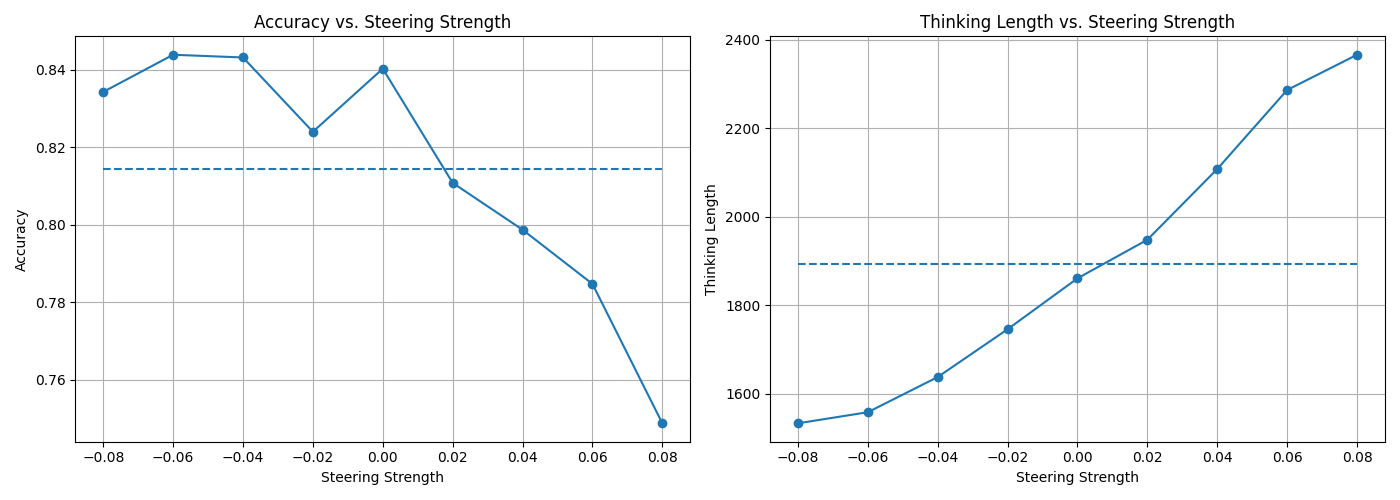
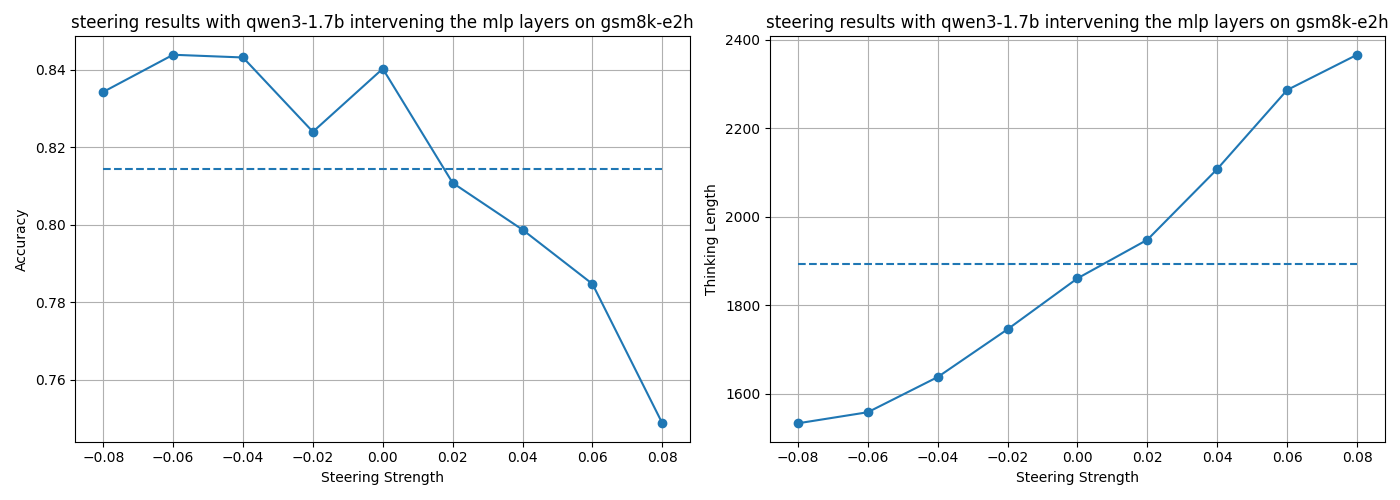
update graph titles + add q difficulty into response generation

Changed region(s): [[0.5529, 0.03, 1.0, 0.06], [0.0307, 0.03, 0.4914, 0.06]]

diff --git a/graph_steering.py b/graph_steering.py
@@ -19,7 +19,7 @@ import os
 import pandas as pd
 import matplotlib.pyplot as plt
 
-def plot_and_save(df, out_path):
+def plot_and_save(df, out_path, title):
     x = df['steering_strength']
     acc = df['accuracy']
     length = df['thinking_length']
@@ -32,7 +32,7 @@ def plot_and_save(df, out_path):
     # Accuracy plot
     ax1.plot(x, acc, marker='o')
     ax1.hlines(mean_acc, x.min(), x.max(), linestyles='--')
-    ax1.set_title('Accuracy vs. Steering Strength')
+    ax1.set_title(title)
     ax1.set_xlabel('Steering Strength')
     ax1.set_ylabel('Accuracy')
     ax1.grid(True)
@@ -40,7 +40,7 @@ def plot_and_save(df, out_path):
     # Thinking Length plot
     ax2.plot(x, length, marker='o')
     ax2.hlines(mean_len, x.min(), x.max(), linestyles='--')
-    ax2.set_title('Thinking Length vs. Steering Strength')
+    ax2.set_title(title)
     ax2.set_xlabel('Steering Strength')
     ax2.set_ylabel('Thinking Length')
     ax2.grid(True)
@@ -73,7 +73,11 @@ def main():
         except Exception as e:
             print(f"  Skipping {csv_path}: cannot read CSV ({e})")
             continue
-
+        parts = os.path.basename(csv_path).split('_')
+        dataset = parts[2]
+        model = parts[0]
+        control = parts[1]
+        title = f"steering results with {model} intervening the {control} layers on {dataset}"
         required = {'steering_strength', 'accuracy', 'thinking_length'}
         if not required.issubset(df.columns):
             missing = required - set(df.columns)
@@ -83,7 +87,7 @@ def main():
         base = os.path.splitext(os.path.basename(csv_path))[0]
         out_png = os.path.join(dir_path, f"{base}_metrics.png")
         print(f"  Processing {csv_path} → {out_png}")
-        plot_and_save(df, out_png)
+        plot_and_save(df, out_png, title)
 
     print("Done.")
 

diff --git a/gen_response_fast.py b/gen_response_fast.py
@@ -33,7 +33,8 @@ device = "cuda" if torch.cuda.is_available() else "cpu"
 
 dsinfo = DATASET_MAP[args.dataset]
 ds_hf_path, ds_opts = dsinfo["args"]
-dataset = load_dataset(ds_hf_path, ds_opts, split=dsinfo["split"])dataset[dsinfo["question_key"]]
+dataset = load_dataset(ds_hf_path, ds_opts, split=dsinfo["split"])
+
 
 model_path = model_dict[args.model]
 if args.vllm:
@@ -69,11 +70,12 @@ def get_prompt(q, tokenizer):
 
 responses_data = []
 thinking_lengths = []
+question_difficulties=[]
 total = len(dataset)
 
 if args.vllm:
     for batch_rows in batched(dataset, args.batch_size):
-        prompts = [get_prompt(r, tokenizer) for r in batch_rows]
+        prompts = [get_prompt(r[dsinfo["question_key"]], tokenizer) for r in batch_rows]
 
         gens = model.generate(prompts, sp)
         for q, out in zip(batch_rows, gens):
@@ -81,8 +83,11 @@ if args.vllm:
         
             thinking_part, thinking_length = extract_thinking(output)
             thinking_lengths.append(thinking_length)
+            question_difficulty = q["rating"] if args.dataset == "gsm8k-e2h" else 1
+            question_difficulties.append(question_difficulty)
             responses_data.append({
                 "question": q,
+                "question_difficulty": question_difficulty,
                 "response": output,
                 "thinking": thinking_part,
                 "thinking_length": thinking_length
